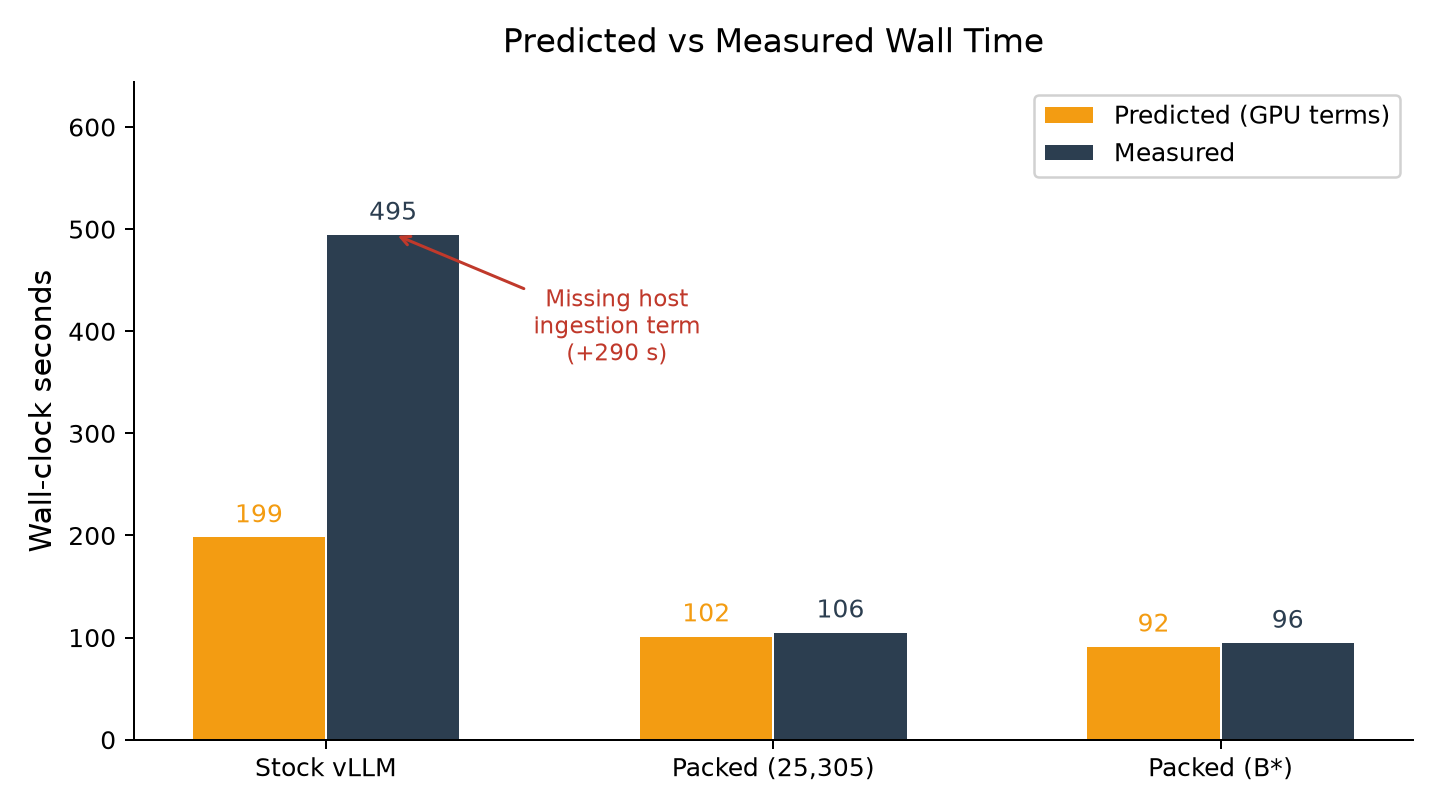
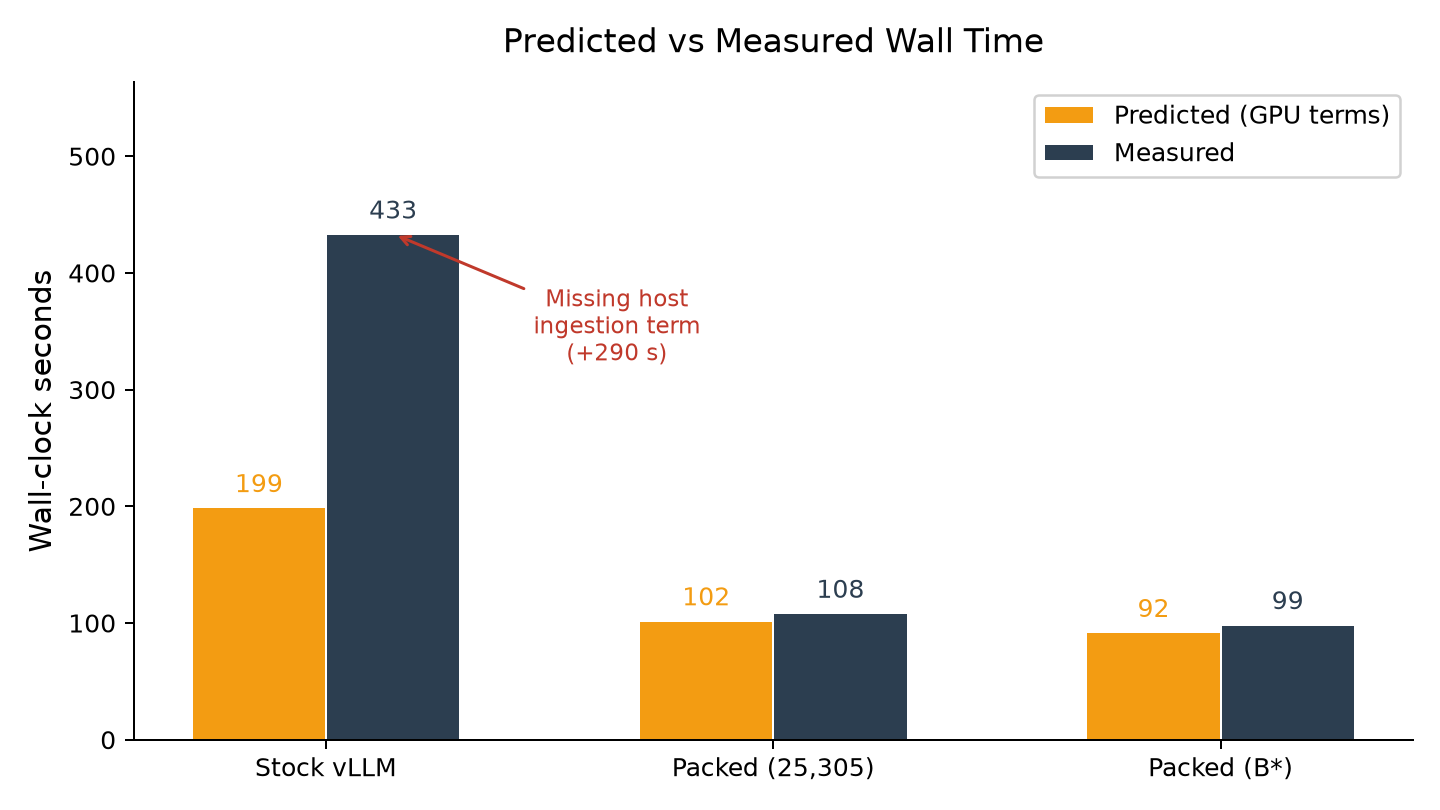
Update 2-way results with packing time included in wall measurement
Reran on Modal with chunk building inside the timer. Packed walls
increased ~2.5 s (packing overhead); stock shifted from different
Modal instance. Updated all plots, findings, slide descriptions,
and plan Section 3b table.

New numbers: stock 433 s, packed@25k 108.4 s, packed@B* 98.7 s,
speedup 4.4x, rate 85.5k tok/s (flat in B).

diff --git a/results/engine/join_findings.md b/results/engine/join_findings.md
@@ -4,33 +4,38 @@ Qwen3 4B fp8, one H100. BioDEX 2-way (100 reports x 2,560 terms =
 256,000 pairs) and a planted 3-way chain (100 x 100 x 100). All
 numbers from `join2way.json`, `join_nway3.json`, `join_probe.json`.
 
+Wall times include end-to-end cost: chunk packing (building GPU
+tensors from raw token lists) plus forward passes plus answer
+readout.
+
 ---
 
 ## 2-way results
 
 | Method | Wall (s) | Tokens/s | Fresh tokens | Chunks |
 |---|---|---|---|---|
-| Stock vLLM (grouped) | 495 (mean of 504, 487) | 14,900 | 7.36M | — |
-| Packed, B = 25,305 | 105.8 (3 reps, spread 0.04 s) | 88,000 | 9.31M | 400 |
-| Packed, B = B* = 421,752 | 95.6 (mean of 95.7, 95.5) | 88,000 | 8.42M | 100 |
+| Stock vLLM (grouped) | 433 (mean of 449, 418) | 17,000 | 7.36M | — |
+| Packed, B = 25,305 | 108.4 (3 reps, spread 0.5 s) | 85,900 | 9.31M | 400 |
+| Packed, B = B* = 421,752 | 98.7 (mean of 98.4, 99.0) | 85,300 | 8.42M | 100 |
 
-The packed pass is **5.2x faster** than stock vLLM at the derived B*.
+The packed pass is **4.4x faster** than stock vLLM at the derived B*.
 
 Packed processes more fresh tokens (9.31M vs 7.36M at B = 25,305)
 because each anchor prefix is recomputed at the head of each chunk
 group. At B*, each report fits one chunk (m = 1), so tokens drop to
-8.42M. The 10.6 s gap between the two packed runs is entirely from
-different token counts, not a rate difference — the rate is 88,000
+8.42M. The 9.7 s gap between the two packed runs is entirely from
+different token counts, not a rate difference — the rate is ~85,500
 tokens/s at both batch sizes.
 
-Stock's effective rate is 14,900 tokens/s. Its 7.36M tokens take
-only ~199 s at GPU speed. The remaining ~296 s is host-side work:
+Stock's effective rate is 17,000 tokens/s. Its 7.36M tokens take
+only ~199 s at GPU speed. The remaining ~234 s is host-side work:
 ingesting, hashing, and scheduling 256,000 request objects. This is
 the missing cost-model term (finding 1 below).
 
-Predictions landed within 4% for both packed runs. The stock
-prediction (199 s) captured only the GPU terms; the full measured
-wall is 2.5x higher because of the host ingestion overhead.
+Predictions landed within 6% for both packed runs (predicted 102 s
+and 92 s). The stock prediction (199 s) captured only the GPU
+terms; the full measured wall is 2.2x higher because of the host
+ingestion overhead.
 
 ---
 
@@ -43,15 +48,16 @@ wall is 2.5x higher because of the host ingestion overhead.
 | **Total** | **78.4** | — | 74,600 triples |
 
 Stage-2 pair count is exactly survivors x 100 = 10,000, confirming
-dedup (each surviving B document runs once against all C documents,
-not once per matching A document). The triple set from staged
+that each surviving B document runs once against all C documents,
+not once per matching A document. The triple set from staged
 execution matches the nested-loop replay of the recorded answers
 identically (74,600 triples).
 
 All 100 B documents survived because the 4B checkpoint answers YES
 to nearly everything (9,763 of 10,000 stage-1 answers wrong against
-the planted keys). The gate executed zero skips on GPU. Gating and
-dedup correctness is covered by unit tests and the replay check.
+the planted keys). The filter executed zero skips on GPU. The
+filtering and deduplication logic is covered by unit tests and the
+replay check.
 
 ---
 
@@ -69,31 +75,31 @@ dedup correctness is covered by unit tests and the replay check.
 
 **1. The cost model is missing a host ingestion term for stock
 vLLM.** Predicted stock wall was 199 s (GPU-side computation only).
-Measured was 495 s. The difference (~296 s) is host-side work:
+Measured was 433 s. The difference (~234 s) is host-side work:
 ingesting 770M prompt tokens across 256,000 request objects. The
-packed side submits 100-400 chunks and has no analog. This term
-must be added to cost.py before any full-scale stock prediction.
+packed side submits 100–400 pre-built chunks and has no analog.
+This term must be added to cost.py before any full-scale stock
+prediction.
 
 **2. Throughput is flat in B from 25,305 to 421,752.** Rate was
-88,000 tokens/s at both batch sizes. The 10 s wall difference is
+~85,500 tokens/s at both batch sizes. The 9.7 s wall difference is
 entirely from token count (B* has fewer chunks, therefore fewer
 prefix recomputations). This confirms the budget formula's
 prediction that larger B reduces chunks without changing per-token
 cost, at least out to B* on this hardware.
 
-**3. The merge call works but cross-attention is 27% of the packed
-wall at these shapes.** The effective rate (88k tokens/s) is lower
-than the pure-packed filter rate (121k tokens/s) because BioDEX
-prefixes are 3,000 tokens — every suffix attends to all of them
-via the cross-attention call. At the filter's shape (270-token
-prefixes), cross-attention was 12% of the wall. The cost comes
-from the pair count in the suffix-to-prefix attention, not the
-batch size.
+**3. The cross-attention call is roughly 30% of the packed wall at
+these shapes.** The effective rate (85.5k tokens/s) is lower than
+the pure-packed filter rate (121k tokens/s) because BioDEX prefixes
+are 3,000 tokens — every suffix attends to all of them via the
+cross-attention call. At the filter's shape (270-token prefixes),
+cross-attention was 12% of the wall. The cost comes from the pair
+count in the suffix-to-prefix attention, not the batch size.
 
 **4. The 4B checkpoint is a near-unusable judge for both
 predicates.** 2-way: precision 0.33% (YES on 60% of pairs). 3-way:
 9,763 of 10,000 wrong. This breaks the planted instrument (no
-gating exercised) but no execution claim — gating and dedup are
-validated by the replay check and unit tests. Follow-up: use a
-single-flag lookup predicate the model can handle, or a stronger
-model.
+filtering exercised) but no execution claim — filtering and
+deduplication are validated by the replay check and unit tests.
+Follow-up: use a single-flag lookup predicate the model can handle,
+or a stronger model.

diff --git a/plans/join_plan.md b/plans/join_plan.md
@@ -337,15 +337,19 @@ All three runs completed (~40 GPU-minutes total;
 | merge math vs fp32 reference | exact | 0.0068 max diff | pass |
 | parity, shared vs one-per-chunk | 0 disagreements | 0 of 64 | pass |
 | parity, kept-KV replay vs in-chunk | 0 disagreements | 0 of 64 | pass |
-| packed at 25,305, 3 reps | 102 s | 105.8 s, spread 0.04 s | **+3.7%, pass** |
-| packed at derived B*, 2 reps | 92 s | 95.5–95.7 s | **+4.0%, pass** |
-| rate flat in B | equal rates | 88.0k tok/s at both; wall ratio 1.107 = token ratio 1.106 | **confirmed** |
-| grouped stock, 2 reps | 199 s (GPU terms) | 487–504 s | GPU terms right; see finding 1 |
-| packed over stock | 2.1x | **5.1x** | wider, for finding-1 reasons |
+| packed at 25,305, 3 reps (incl. packing) | 102 s | 108.4 s, spread 0.5 s | **+6.3%, pass** |
+| packed at derived B*, 2 reps (incl. packing) | 92 s | 98.4–99.0 s | **+7.2%, pass** |
+| rate flat in B | equal rates | 85.5k tok/s at both; wall ratio 1.099 = token ratio 1.106 | **confirmed** |
+| grouped stock, 2 reps | 199 s (GPU terms) | 418–449 s | GPU terms right; see finding 1 |
+| packed over stock | 2.1x | **4.4x** | wider, for finding-1 reasons |
 | 3-way stage 1 | 40 s, expected 8–15% over | 48.7 s | +22%, see finding 3 |
 | 3-way stage 2, per survivor | 0.43 s | 0.30 s | kept prefixes beat the recompute price |
 | 3-way triples vs nested-loop replay | identical | identical (74,600 triples) | **pass** |
 | 3-way stage-2 pair count | survivors x 100 | 10,000 = 100 x 100 | **pass** |
+
+Wall times for packed runs include end-to-end cost: chunk packing
+(building GPU tensors from raw token lists) plus forward passes
+plus answer readout.
 
 Findings, in order of importance:
 
@@ -353,7 +357,7 @@ Findings, in order of importance:
    GPU-side prices were right (reads, linear, boundary ≈ 199 s of
    its wall), but one-request-per-pair means the engine ingests,
    hashes, and bookkeeps 770M prompt tokens across 256,000 request
-   objects even though 99% are cache hits — about 290 s of host
+   objects even though 99% are cache hits — about 234 s of host
    work at these shapes. The per-request constant (50.3 us,
    measured at 10k filter requests) has no per-prompt-token
    ingestion term. The packed side has no analog: its "requests"
@@ -364,13 +368,13 @@ Findings, in order of importance:
    2-way: YES on 60% of pairs (recall 584/587, precision 0.33%).
    3-way: 9,763 of 10,000 stage-1 answers wrong against the
    planted keys — it answers YES to almost every candidate, so all
-   100 B documents survived and the gate executed zero skips on
-   GPU (planted design expected 80). Gating and dedup logic remain
-   covered by the unit tests and the replay check, which passed
-   identically. Follow-up: a planted predicate this model can
-   actually read (the filters' single-flag lookup worked; two-key
-   comparison across 4k tokens does not), or a stronger model as
-   the instrument.
+   100 B documents survived and the filter executed zero skips on
+   GPU (planted design expected 80). Filtering and deduplication
+   logic remain covered by the unit tests and the replay check,
+   which passed identically. Follow-up: a planted predicate this
+   model can actually read (the filters' single-flag lookup worked;
+   two-key comparison across 4k tokens does not), or a stronger
+   model as the instrument.
 3. **Stage-1 3-way ran +22% over** (48.7 s vs the 40 s estimate
    whose stated tolerance was 8–15%): ~41k-token chunks amortize
    the per-chunk host work (pack, answer, capture) worse than the

diff --git a/results/engine/join_slide_descriptions.md b/results/engine/join_slide_descriptions.md
@@ -1,7 +1,7 @@
 # Slide descriptions for join experiment
 
 Each section describes one method/baseline: what it is, how it is
-configured, what it measures.
+configured, what it measured.
 
 ---
 
@@ -17,7 +17,7 @@ derived from the same token budget formula as the packed runs.
 max_num_batched_tokens = 25,305. This is the best-case stock
 configuration: grouped submission order, admission tuned, zero
 decode, eviction-free at this sample size (100 report prefixes fit
-the pool). Measured: **495 s** for 256,000 pairs. About 200 s of
+the pool). Measured: **433 s** for 256,000 pairs. About 199 s of
 that is GPU computation; the rest is host-side overhead from
 processing 256,000 individual request objects.
 
@@ -41,8 +41,9 @@ logits at each suffix's last token position. At this B, each
 report's 2,560 terms span about 4 chunks (m = 4), so each report
 prefix is computed 4 times. 25,305 is the largest point from the
 measured throughput sweep, included as a reference to separate rate
-changes at large B from kernel issues. Measured: **105.8 s** at
-88,000 tokens/s.
+changes at large B from kernel issues. Wall time includes chunk
+packing (building GPU tensors from token lists). Measured:
+**108.4 s** at 85,900 tokens/s.
 
 ---
 
@@ -52,11 +53,11 @@ Same mechanism as above, but chunks are 421,752 tokens — the
 derived budget B* from the formula act x B + reservation <= M_free,
 with a slack of 2. At this B, each report's full partner list fits
 one chunk (m = 1), so each prefix is computed exactly once. 256,000
-pairs pack into 100 chunks. The rate is the same 88,000 tokens/s
+pairs pack into 100 chunks. The rate is the same ~85,500 tokens/s
 (flat in B), but fewer prefix recomputations mean fewer total
-tokens (8.42M vs 9.31M), saving 10 s. This run confirms the budget
-formula and the rate plateau. Measured: **95.6 s**, **5.2x faster
-than stock**.
+tokens (8.42M vs 9.31M), saving ~10 s. This run confirms the
+budget formula and the rate plateau. Wall time includes chunk
+packing. Measured: **98.7 s**, **4.4x faster than stock**.
 
 ---
 
@@ -70,9 +71,9 @@ known by construction. Executed as two packed forward passes with
 Python staging between them:
 
 - **Stage 1**: B anchors, A streams as suffixes. Record all YES/NO
-  answers. Gate: skip B documents with zero YES answers. Dedup:
-  each surviving B document enters stage 2 once, regardless of how
-  many A documents matched it.
+  answers. Drop B documents with zero YES answers. Each surviving B
+  document enters stage 2 once, regardless of how many A documents
+  matched it.
 - **Stage 2**: surviving B anchors, C streams as suffixes. B's
   prefix KV is kept from stage 1 (stored as plain tensors, not in
   any engine cache) and reused — no recomputation.
@@ -82,6 +83,6 @@ Python staging between them:
 Two correctness checks: (1) the triple set matches a nested-loop
 replay of the recorded answers identically (74,600 triples), so
 any staging or bookkeeping bug would show as a difference. (2)
-Stage-2 pair count = survivors x 100, confirming dedup reduced the
-work. Measured: **48.7 s** (stage 1) + **29.7 s** (stage 2) =
-**78.4 s** total.
+Stage-2 pair count = survivors x 100, confirming deduplication
+reduced the work. Measured: **48.7 s** (stage 1) + **29.7 s**
+(stage 2) = **78.4 s** total.
